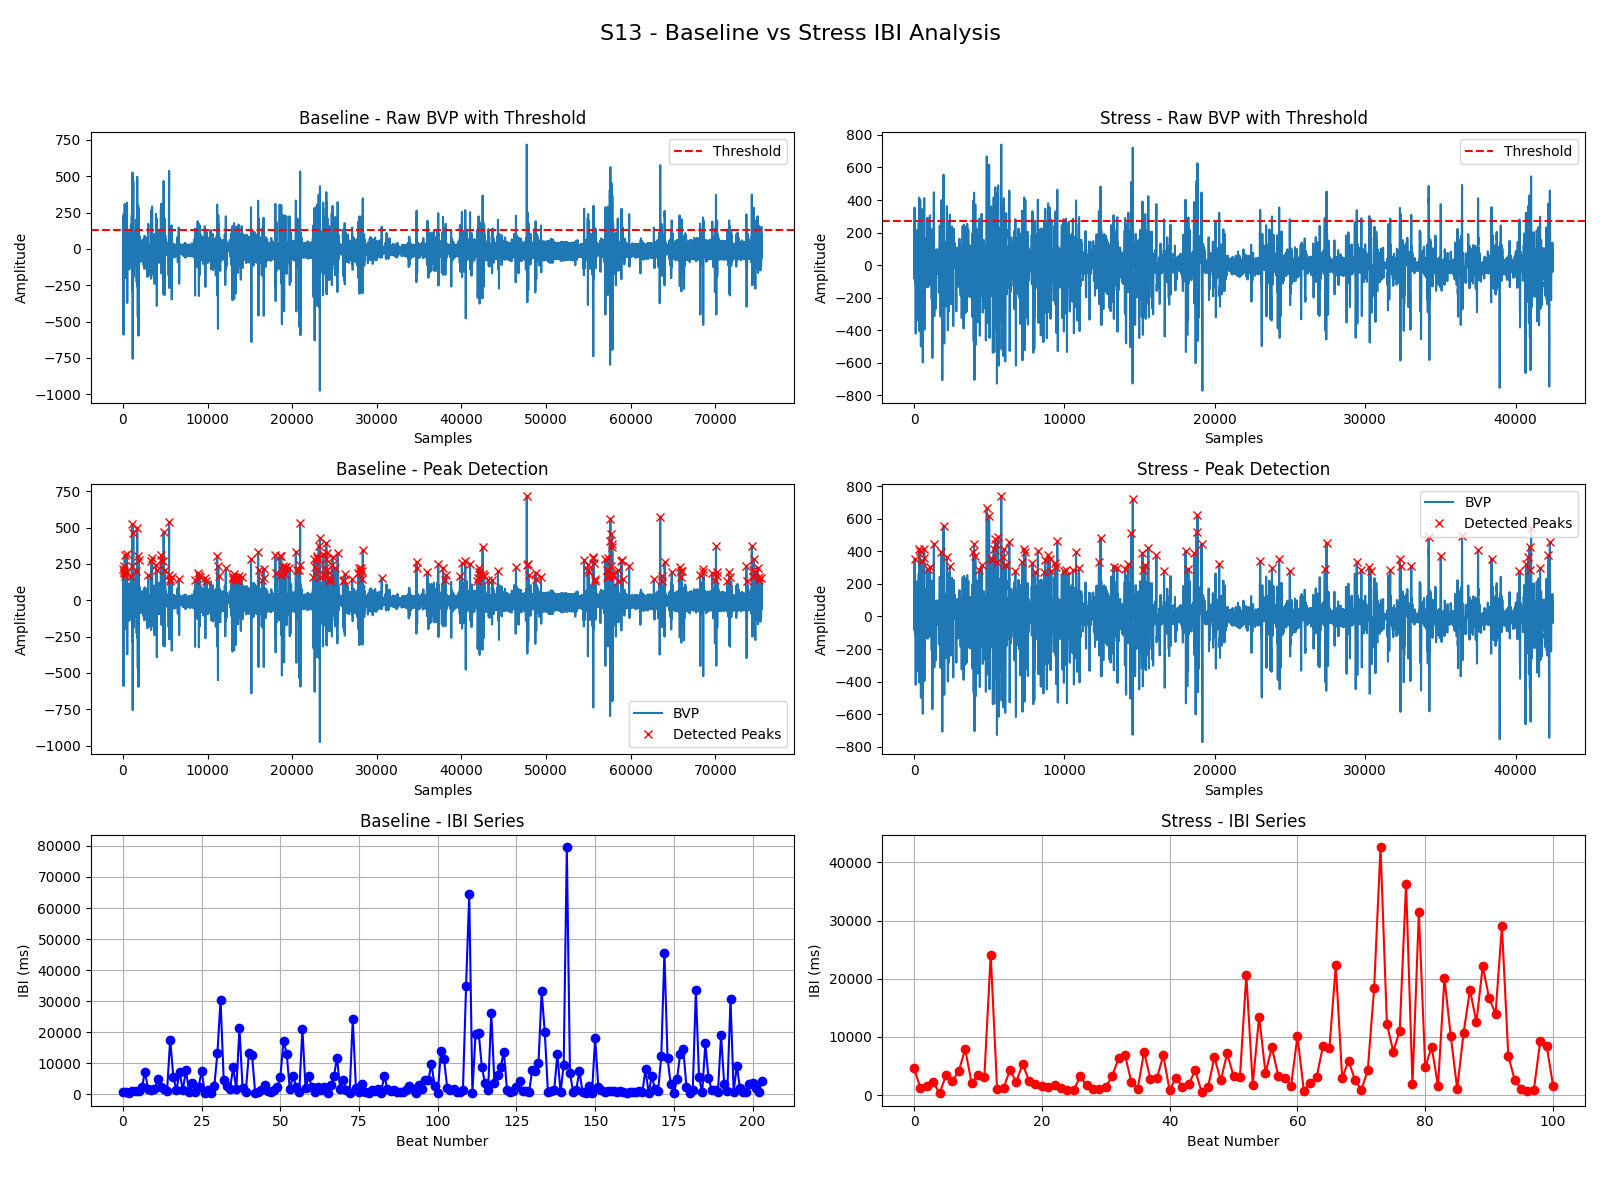
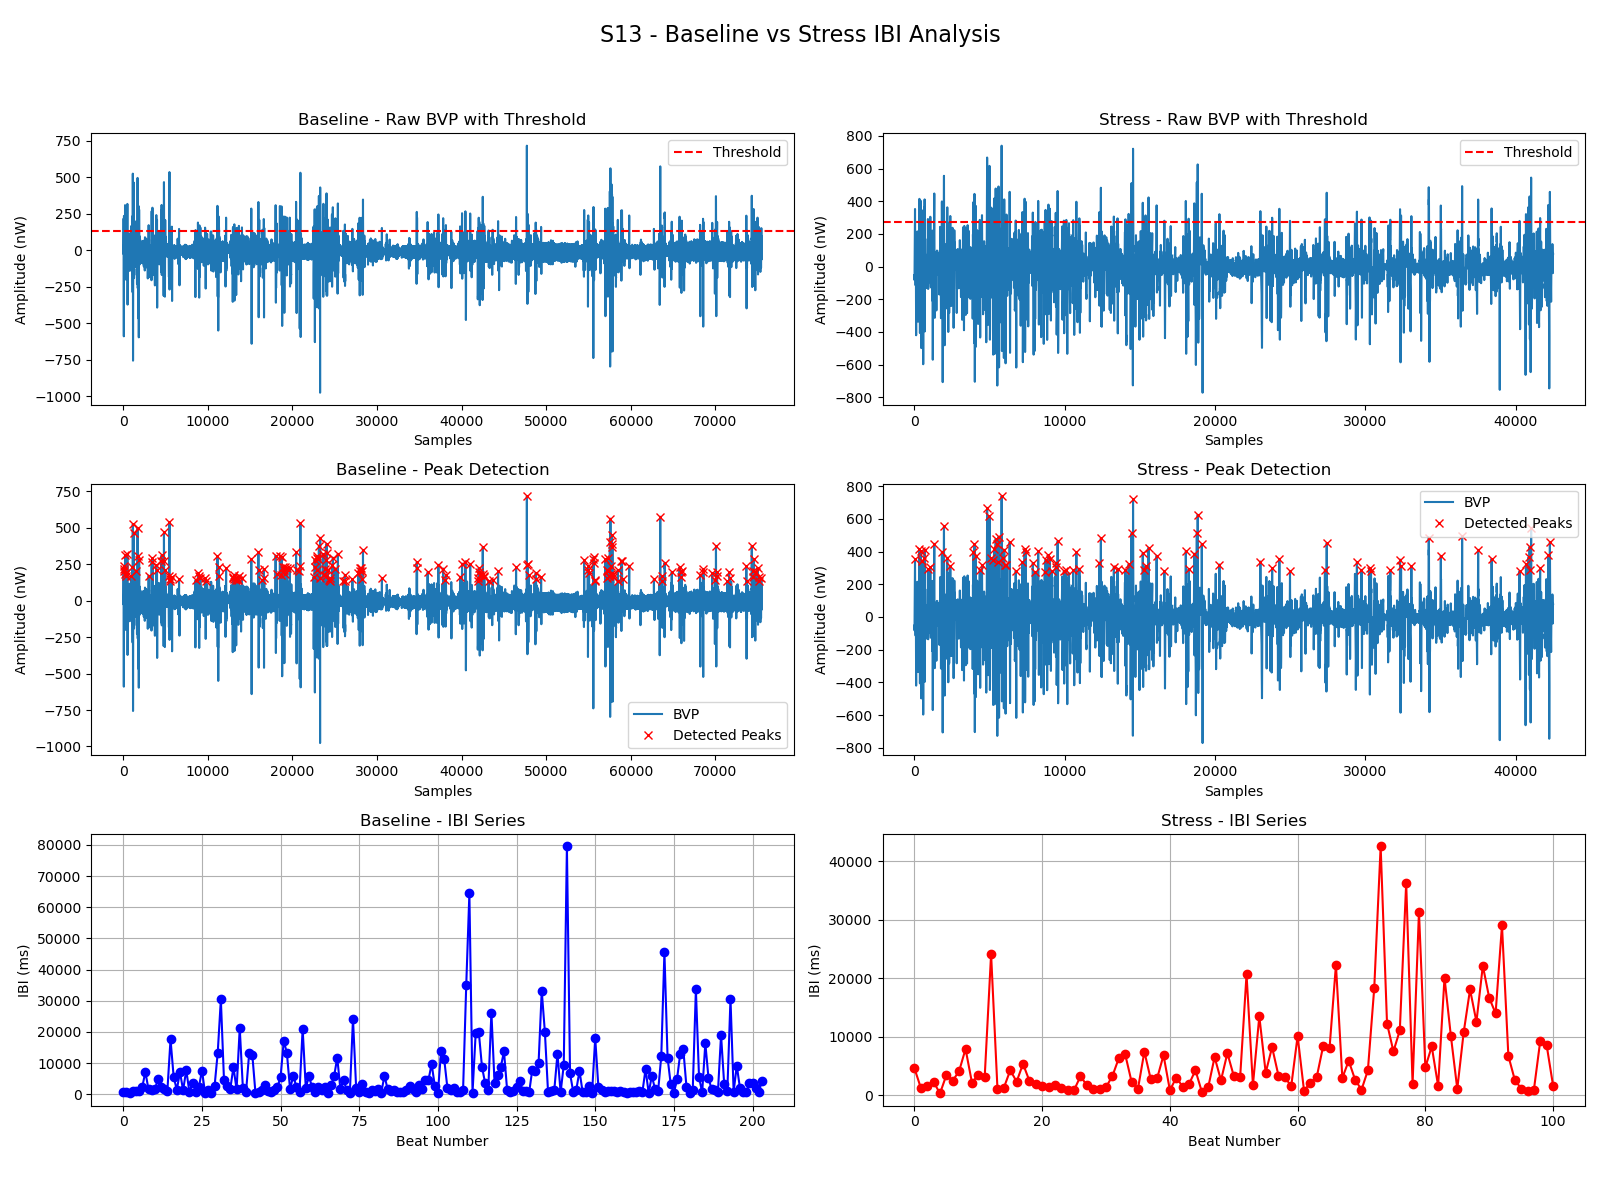
Add Units

diff --git a/preprocessing/ibi_features.py b/preprocessing/ibi_features.py
@@ -56,7 +56,7 @@ def visualize_ibi(subject, bvp_baseline, peaks_baseline, ibi_baseline, threshold
     axes[0,0].axhline(y=threshold_baseline, color='r', linestyle='--', label='Threshold')
     axes[0,0].set_title("Baseline - Raw BVP with Threshold")
     axes[0,0].set_xlabel("Samples")
-    axes[0,0].set_ylabel("Amplitude")
+    axes[0,0].set_ylabel("Amplitude (nW)")
     axes[0,0].legend()
 
     # Raw BVP - Stress
@@ -64,7 +64,7 @@ def visualize_ibi(subject, bvp_baseline, peaks_baseline, ibi_baseline, threshold
     axes[0,1].axhline(y=threshold_stress, color='r', linestyle='--', label='Threshold')
     axes[0,1].set_title("Stress - Raw BVP with Threshold")
     axes[0,1].set_xlabel("Samples")
-    axes[0,1].set_ylabel("Amplitude")
+    axes[0,1].set_ylabel("Amplitude (nW)")
     axes[0,1].legend()
 
     # Peak detection - Baseline
@@ -72,7 +72,7 @@ def visualize_ibi(subject, bvp_baseline, peaks_baseline, ibi_baseline, threshold
     axes[1,0].plot(peaks_baseline, bvp_baseline[peaks_baseline], 'rx', label="Detected Peaks")
     axes[1,0].set_title("Baseline - Peak Detection")
     axes[1,0].set_xlabel("Samples")
-    axes[1,0].set_ylabel("Amplitude")
+    axes[1,0].set_ylabel("Amplitude (nW)")
     axes[1,0].legend()
 
     # Peak detection - Stress
@@ -80,7 +80,7 @@ def visualize_ibi(subject, bvp_baseline, peaks_baseline, ibi_baseline, threshold
     axes[1,1].plot(peaks_stress, bvp_stress[peaks_stress], 'rx', label="Detected Peaks")
     axes[1,1].set_title("Stress - Peak Detection")
     axes[1,1].set_xlabel("Samples")
-    axes[1,1].set_ylabel("Amplitude")
+    axes[1,1].set_ylabel("Amplitude (nW)")
     axes[1,1].legend()
 
     # IBI series - Baseline
